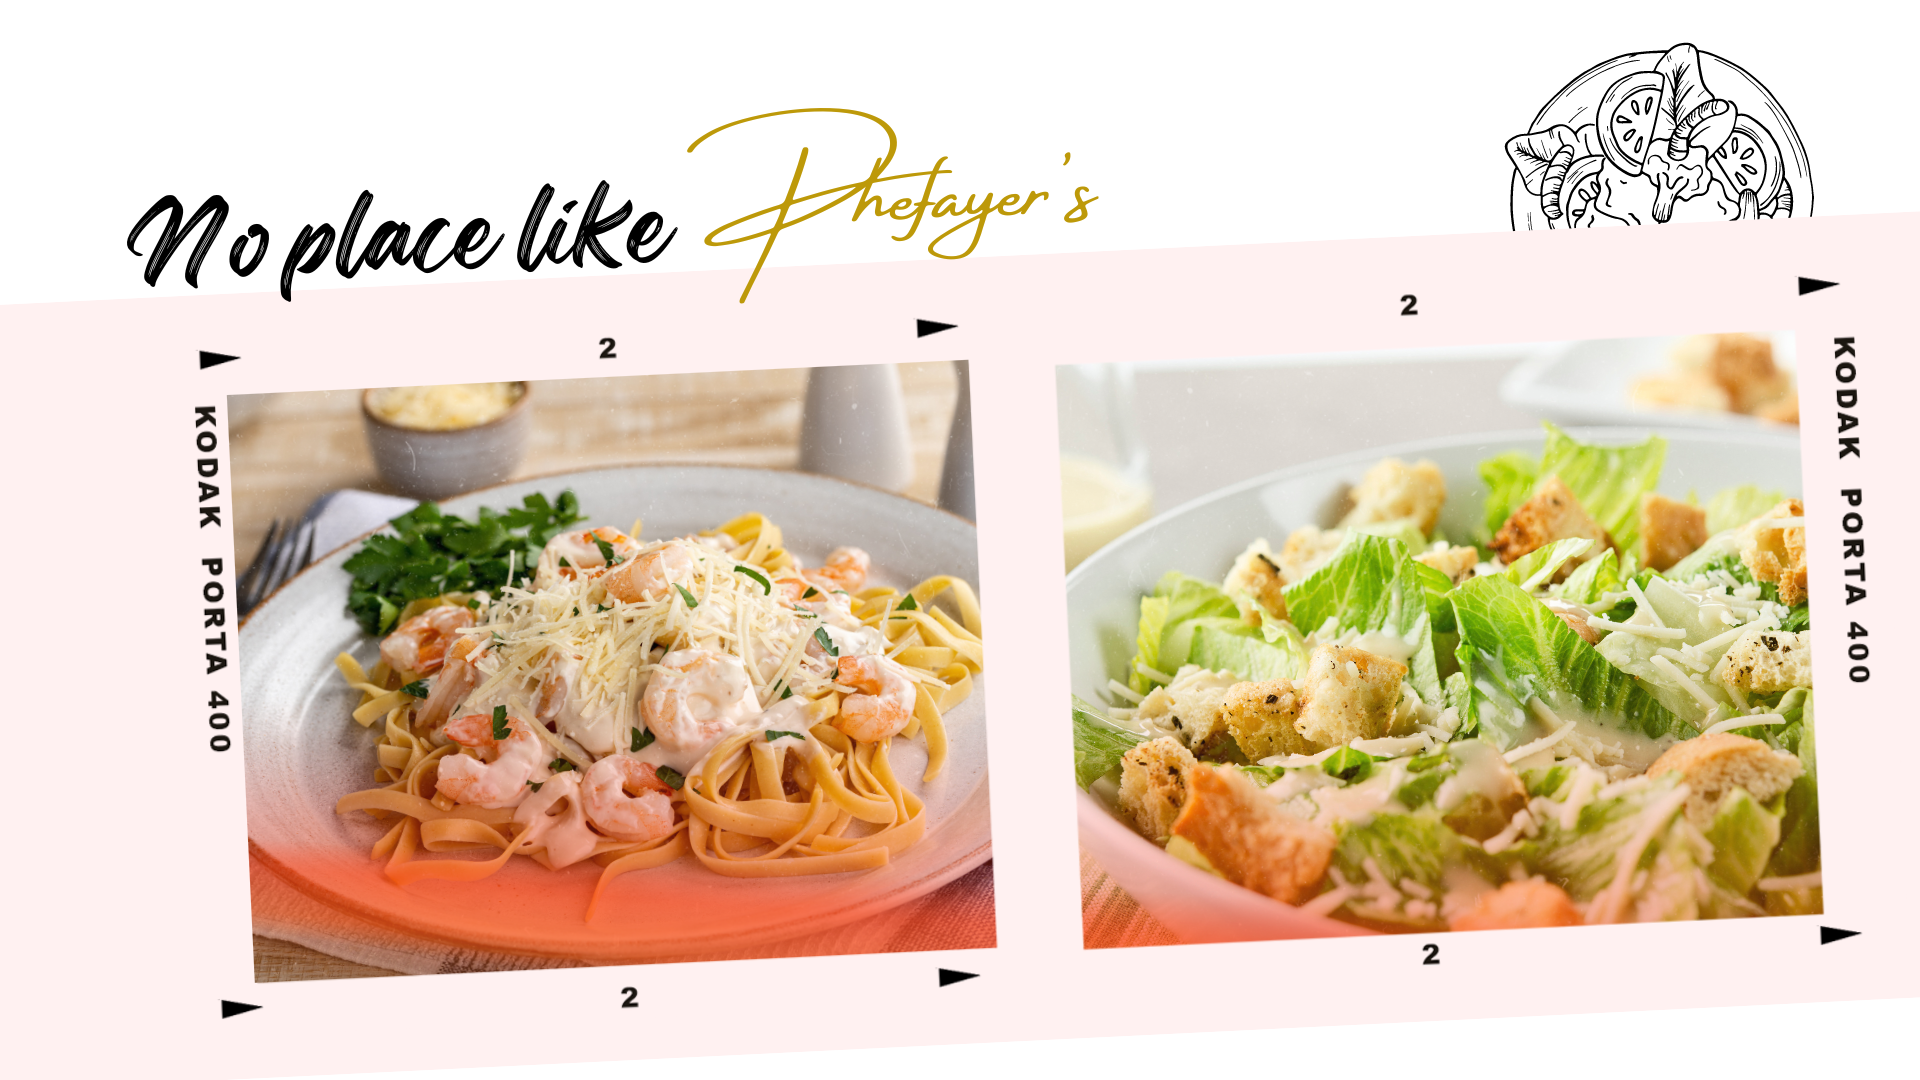
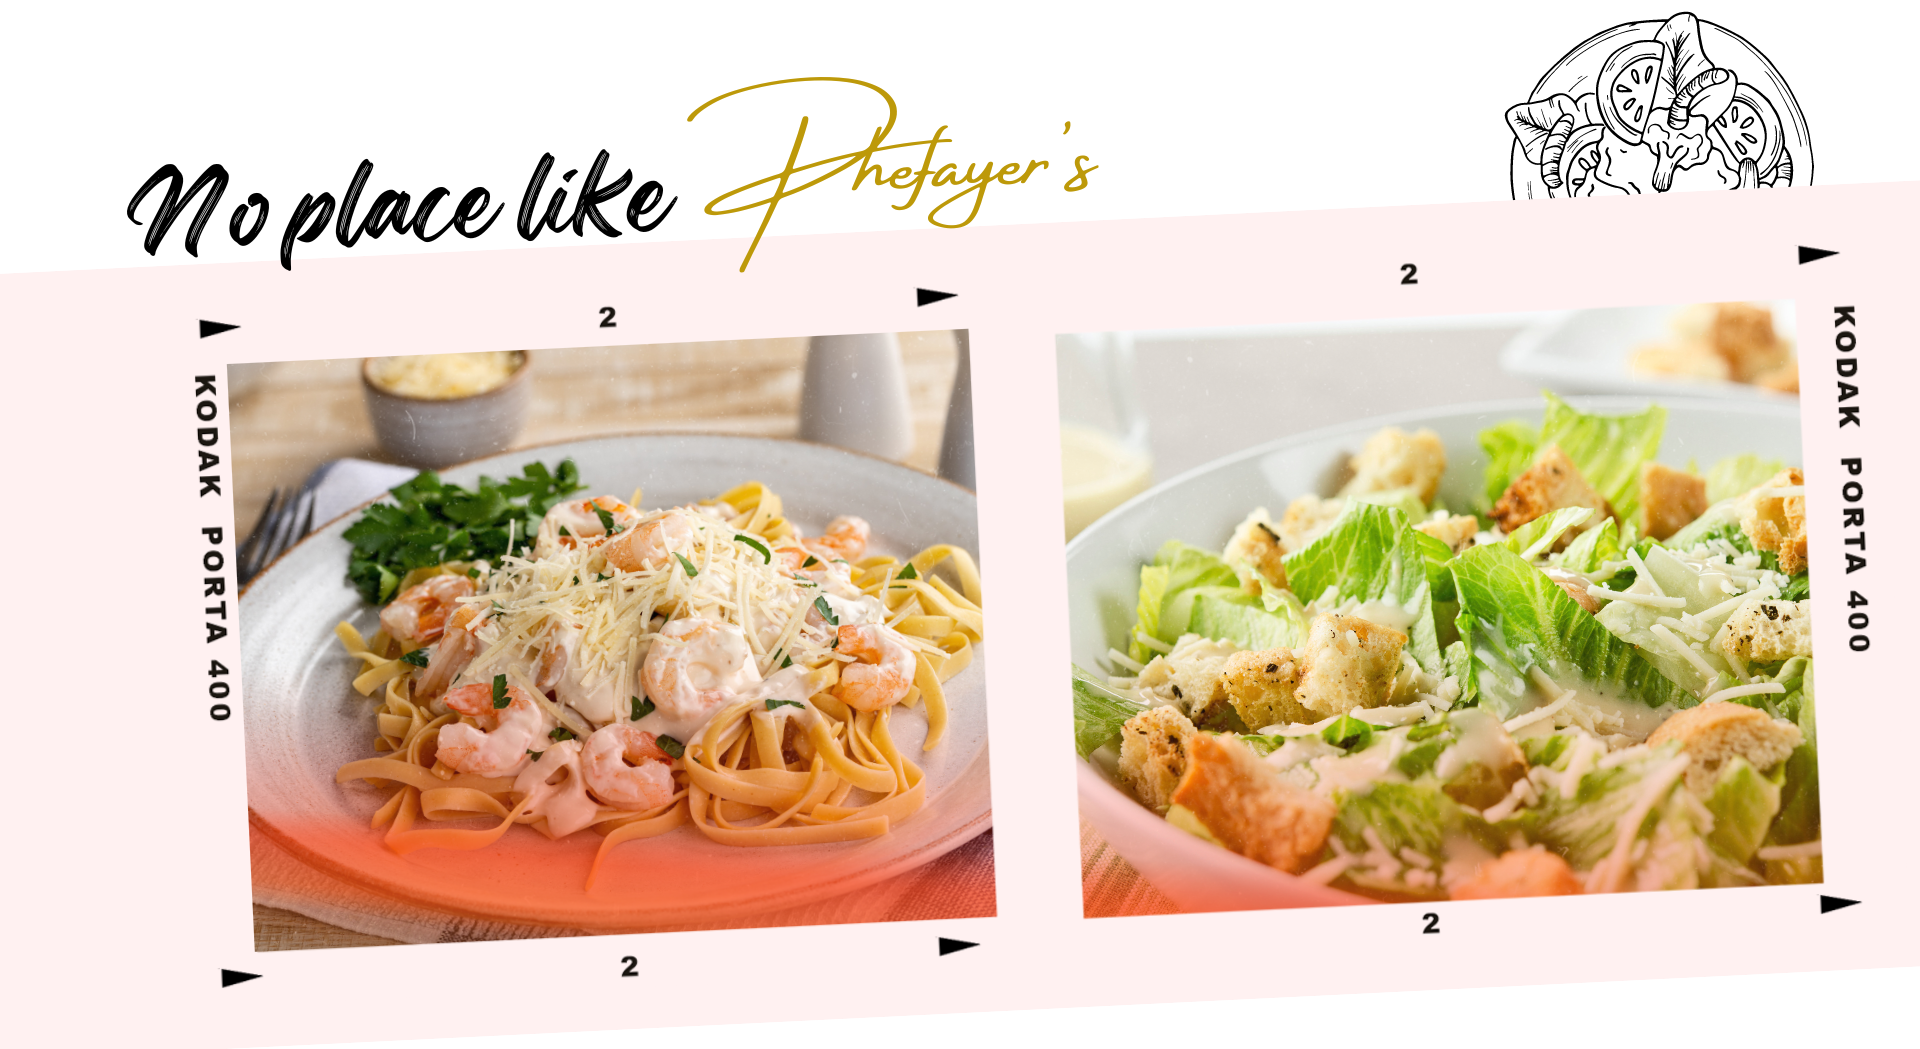
FINAL

Changed region(s): [[0.0938, 0.2135, 0.9688, 0.9457], [0.0625, 0.061, 0.5938, 0.2745], [0.7812, 0.0, 0.9688, 0.2135]]

diff --git a/index.html b/index.html
@@ -12,26 +12,30 @@
    </head>
 
     <body>
+        
+        <script>
+            alert("Welcome to Phefayer's Resto Website! \n\n Note: This website is made for educational purposes only.");
+        </script>
 
-    <button onclick="topFunction()" id="goTop"><i class='fas fa-arrow-up'></i></button>
-    <script src="js/top.js"></script>
+        <button onclick="topFunction()" id="goTop"><i class='fas fa-arrow-up'></i></button>
+        <script src="js/top.js"></script>
 
-    <div class="headrow">
-                        
-        <div class="logocol">
-            <img src="pics/logo.png" id = "logoicon">
-            <img src="pics/logoname.png" id = "namelogo">
+        <div class="headrow">
+                            
+            <div class="logocol">
+                <img src="pics/logo.png" id = "logoicon">
+                <img src="pics/logoname.png" id = "namelogo">
+            </div>
+
+            <div class="navcol">
+                <div class = "navbutton"><a href="#"  id = "firstnav">HOME</a></div>
+                <div class = "navbutton"><a href="#menubg" id = "secondnav">OUR MENU</a></div>
+                <div class = "navbutton"><a href="#footerbg" id = "lastnav">CONTACT</a></div>
+            </div>
+
         </div>
 
-        <div class="navcol">
-            <div class = "navbutton"><a href="#"  id = "firstnav">HOME</a></div>
-            <div class = "navbutton"><a href="#menubg" id = "secondnav">OUR MENU</a></div>
-            <div class = "navbutton"><a href="#footerbg" id = "lastnav">CONTACT</a></div>
-        </div>
-
-    </div>
-
-    <div id = "bannerbg">
+      <div id = "bannerbg">
         <div class="banners">
                 
                 <div class="banner">
@@ -249,4 +253,5 @@
         </div>
 
     </body>
+
 </html>

diff --git a/blogstyle.css b/blogstyle.css
@@ -78,6 +78,19 @@
     background-color: rgb(24,25,26, 0);
 }
 
+  
+#imager {
+    width: calc(100vw/4);
+    color: black;
+    background-color: white;
+    border: solid 3px #BD9898;
+}
+  
+#imager:hover {
+    color: white;
+    background-color: #BD9898;
+}
+
 @media (max-width: 1400px) {
     #blogtitle .cardboard  .card{
         margin-top: -50px;
@@ -91,7 +104,7 @@
     .finder {
         margin-top: -30px;
     }
-    .finder a {
+    .finder a, #imager {
         font-size: 25px;
     }
     .card .content .category{
@@ -110,7 +123,7 @@
     .finder {
         margin-top: -10px;
     }
-    .finder a {
+    .finder a, #imager {
         font-size: 18px;
     }
     .card .content .category{
@@ -122,7 +135,10 @@
 }
 
 @media (max-width: 840px) {
-    .finder a {
+    #imager {
+        width: calc(100vw/2);
+    }
+    .finder a, #imager {
         font-size: 16px;
     }
     .card .content .category{
@@ -162,10 +178,12 @@
     }
 }
 
+.dividerimg {
+    padding-bottom: 100px;
+}
 
 .dividerimg img {
-    margin-top: -30px;
+    margin-top: -50px;
     width: 100vw;
     transition: all 0.4s ease;
 }
-  

diff --git a/blog.html b/blog.html
@@ -13,7 +13,7 @@
         <meta name="viewport" content="width=device-width, initial-scale=1.0">
     </head>
 
-    <body>
+    <body>j
         <button onclick="topFunction()" id="goTop"><i class='fas fa-arrow-up'></i></button>
         <script src="js/top.js"></script>
 
@@ -145,6 +145,14 @@
 
         <div class="dividerimg">
             <img src="pics/BLOG/Divider.png" alt="">
+            <button id = "imager" onclick="myFunction()">See more food images</button>
+
+            <script>
+                function myFunction() {
+                    window.open("pics/BLOG/Gallery.png",'','');
+                }
+            </script>
+
         </div>
 
         <div id ="footerbg">

diff --git a/cocktail.html b/cocktail.html
@@ -13,6 +13,7 @@
     </head>
 
     <body>
+
         <button onclick="topFunction()" id="goTop"><i class='fas fa-arrow-up'></i></button>
         <script src="js/top.js"></script>
 
@@ -32,7 +33,7 @@
         </div>
 
         <div id ="menutitle">
-            <p>OUR MENU</p> 
+            <p>OUR MENU</p>    
             
             <div class="container">
             

diff --git a/menustyle.css b/menustyle.css
@@ -6,6 +6,7 @@
   background-repeat: no-repeat;
 }
 
+
 @media (max-width: 1700px) {
   #menutitle {
     background-position: -210px 1000px, 0px;
@@ -350,4 +351,3 @@ button.is_active span{
 #onlyshort {
   margin-top: -60px;
 }
-
